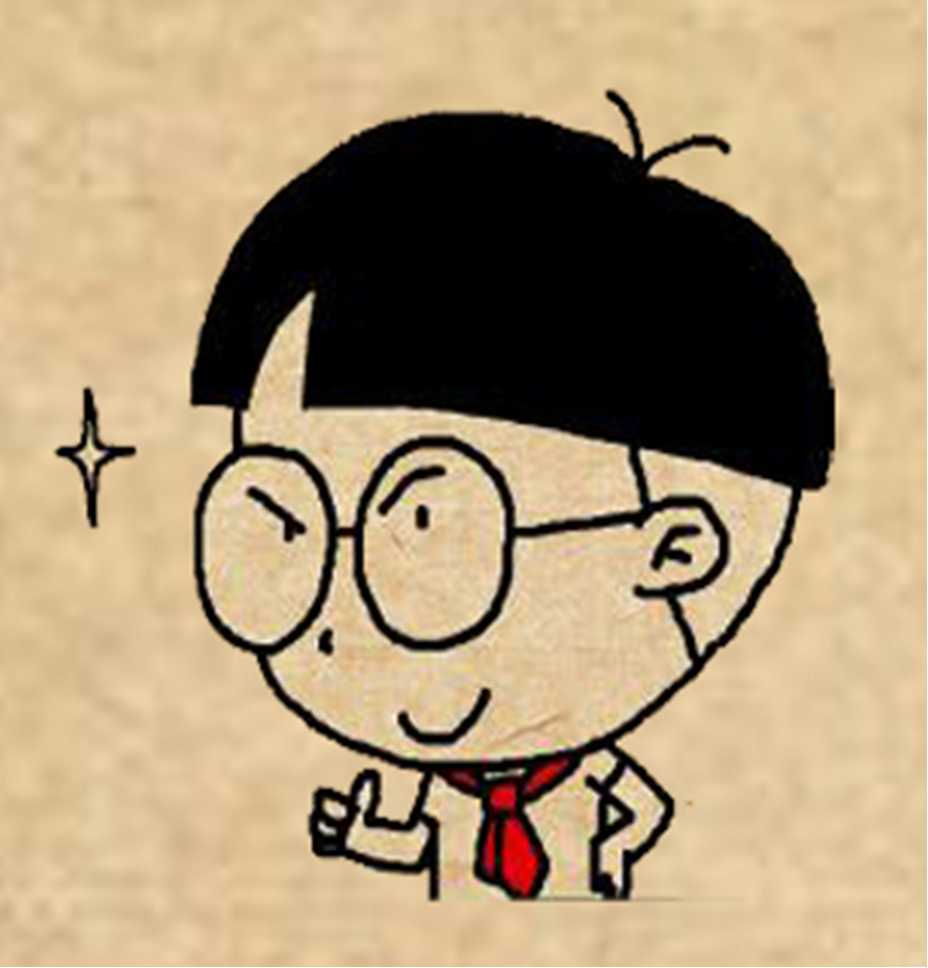
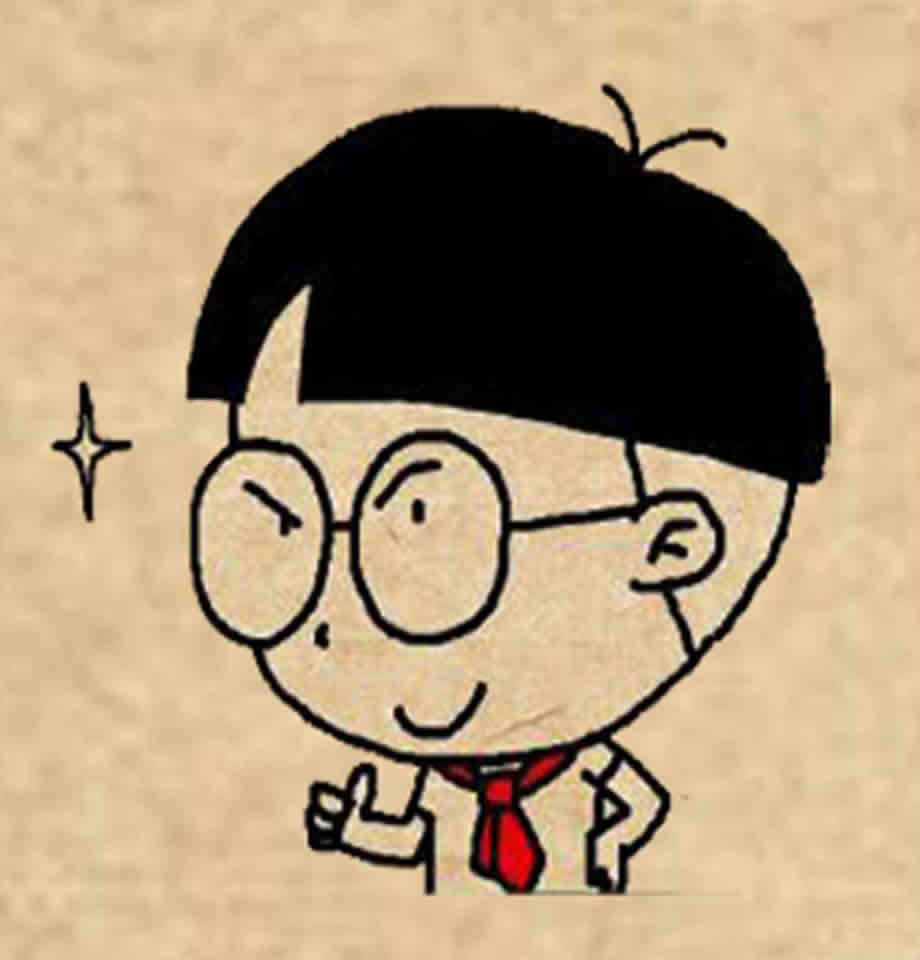
update

diff --git a/demo/2015-01-07/toll-gate.css b/demo/2015-01-07/toll-gate.css
@@ -37,7 +37,7 @@ body {
     display: block;
     margin: 0 auto;
     width: 200px;
-    height: 26px;
+    height: 24px;
     font-size: 26px;
     padding: 14px 0;
 }
@@ -89,7 +89,9 @@ body {
 }
 
 .section-welcome img, .section-iconograph img {
-    width: 100%;
+    width: 90%;
+    display: block;
+    margin: 0 auto;
 }
 
 .section-0-bottom .btn-primary {
@@ -134,11 +136,12 @@ body {
     width: 100%;
     text-align: center;
 }
-.section-end .buttons .btn-primary{
+
+.section-end .buttons .btn-primary {
     font-size: 16px;
     width: 140px;
     padding: 6px;
-    height: 24px;
+    height: 22px;
 }
 
 .section-end .buttons a:nth-child(1) {
